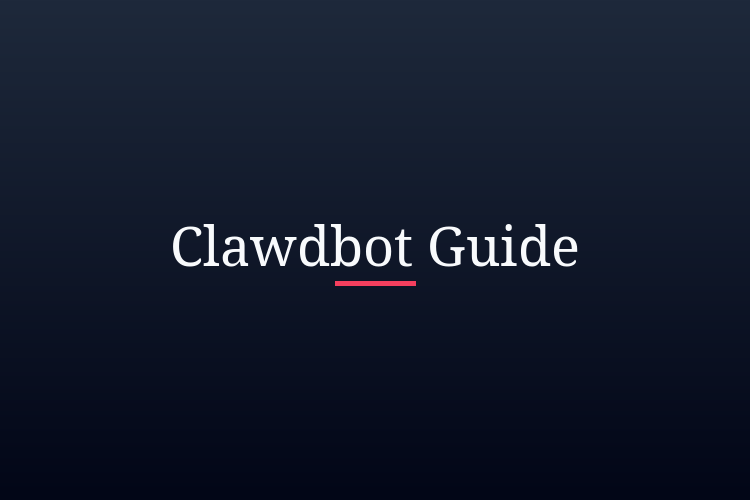
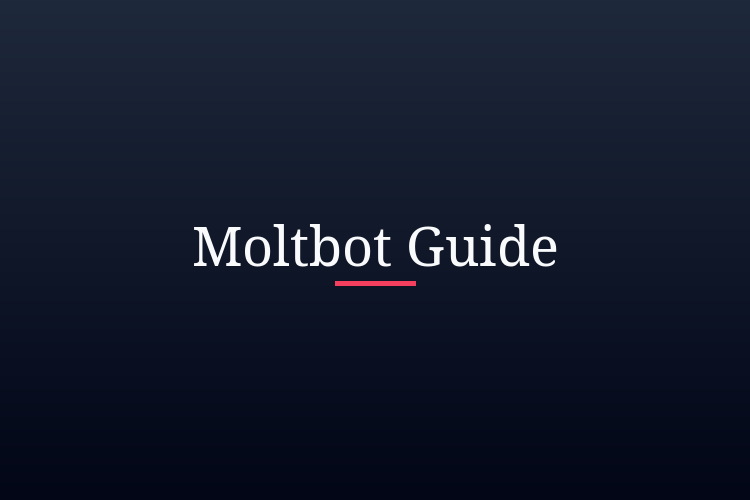
docs: update blog cover images and author name consistency

Changed region(s): [[0.2147, 0.45, 0.7667, 0.54]]

diff --git a/scripts/generate_blog_thumbnails.py b/scripts/generate_blog_thumbnails.py
@@ -24,6 +24,8 @@ IMAGES_TO_GENERATE = [
     ("clawdbot-guide.png", "Moltbot Guide"),
     ("refactoring-with-ai.png", "Refactoring with AI"),
     ("automated-video-with-remotion.png", "Automated Video"),
+    ("google-analytics-guide.png", "GA4 Traffic Reporter"),
+    ("search-console-guide.png", "GSC Keyword Finder"),
 ]
 
 def ensure_dir(path):

diff --git a/content/blog/search-console-api-guide.md b/content/blog/search-console-api-guide.md
@@ -2,7 +2,7 @@
 title: "The 'Smart' Way to Find High-Intent Keywords with Search Console"
 date: "2026-02-07"
 excerpt: "Stop manually checking keyword rankings. Here is how to use automation to pull your top-performing queries directly from Search Console into your own tools."
-coverImage: "/images/blog/screenshot-engine.png"
+coverImage: "/images/blog/search-console-guide.png"
 author:
   name: "Akhil from Real Examples"
 category: "Automation"

diff --git a/content/blog/google-analytics-api-guide.md b/content/blog/google-analytics-api-guide.md
@@ -2,7 +2,7 @@
 title: "The 'Lazy' Way to Build Your Own Google Analytics Reporter"
 date: "2026-02-06"
 excerpt: "Stop logging into Google Analytics. Here is the exact script I use to fetch my website's top pages directly in my terminal, without opening a single dashboard."
-coverImage: "/images/blog/screenshot-engine.png"
+coverImage: "/images/blog/google-analytics-guide.png"
 author:
   name: "Akhil from Real Examples"
 category: "Automation"

diff --git a/content/blog/automating-instagram-direct-publishing.md b/content/blog/automating-instagram-direct-publishing.md
@@ -4,8 +4,8 @@ date: "2026-02-05"
 excerpt: "A step-by-step technical guide to building a custom Instagram auto-poster using Puppeteer, Cloudinary, and the Meta Graph API."
 coverImage: "/images/blog/automated-video-with-remotion.png"
 author:
-  name: "Akhil Nair"
-category: "Engineering"
+  name: "Akhil from Real Examples"
+category: "Automation"
 ---
 
 # How I Automated Instagram Direct Publishing
